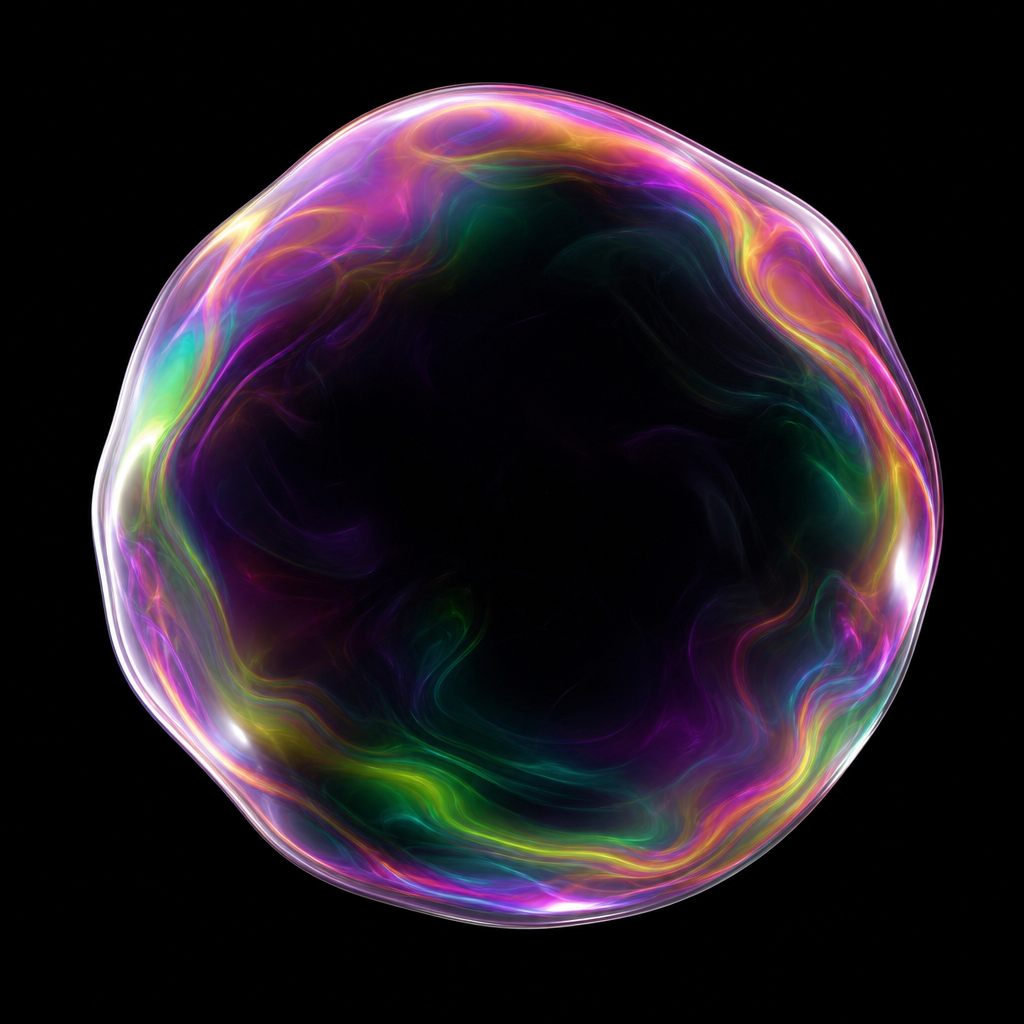
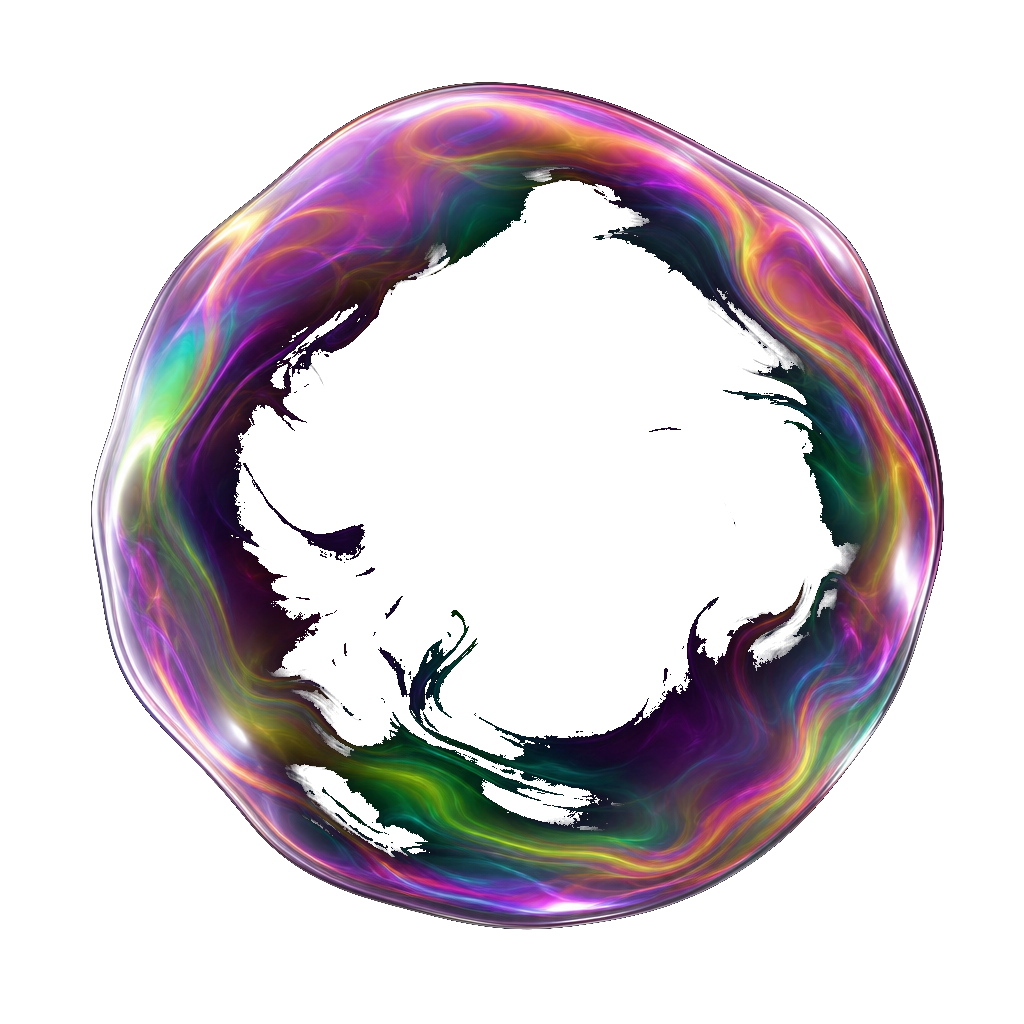
fix: sol boşluk, baloncuk şeffaflığı ve menü ikon geçişleri
- Sol/sağ kenar boşluğu eşit ve artırıldı
- Baloncuk PNG arka planı şeffaf; siyah kare kaldırıldı
- Menü ikonları sabit hitbox: bir ikon sınırı bırakılınca kapanır,
  diğerine girilince açılır; yazı ikonların sağında, geçişi engellemez

diff --git a/src/components/PartnershipMenu.tsx b/src/components/PartnershipMenu.tsx
@@ -38,6 +38,8 @@ export default function PartnershipMenu() {
     }, 200)
   }, [clearTimers])
 
+  const activeLabel = MENU_ITEMS.find((i) => i.id === activeItem)?.label
+
   return (
     <div
       className="relative flex items-center gap-1"
@@ -70,36 +72,43 @@ export default function PartnershipMenu() {
       </button>
 
       {showItems && (
-        <div className="flex items-center gap-0.5 ml-1 partnership-items-enter">
-          {MENU_ITEMS.map(({ id, label, Icon }) => {
-            const isActive = activeItem === id
-            const isHidden = activeItem !== null && activeItem !== id
+        <div
+          className="relative flex items-center ml-1 partnership-items-enter"
+          onMouseLeave={() => setActiveItem(null)}
+        >
+          {/* Fixed icon hitboxes — leave one icon boundary / enter another switches cleanly */}
+          <div className="flex items-center">
+            {MENU_ITEMS.map(({ id, label, Icon }) => {
+              const isActive = activeItem === id
+              const anotherActive = activeItem !== null && activeItem !== id
 
-            return (
-              <div
-                key={id}
-                className={`flex items-center gap-2 px-2 py-1.5 rounded-lg cursor-pointer transition-all duration-200 ${
-                  isHidden
-                    ? 'opacity-0 max-w-0 px-0 overflow-hidden pointer-events-none'
-                    : 'opacity-100 hover:bg-white/5'
-                }`}
-                onMouseEnter={() => setActiveItem(id)}
-                onMouseLeave={() => setActiveItem(null)}
-              >
-                <span className={`flex items-center justify-center w-7 h-7 flex-shrink-0 ${isActive ? 'icon-glow-wrap' : ''}`}>
-                  <Icon glowing={isActive} />
-                </span>
-                {isActive && (
-                  <span
-                    key={`${id}-label`}
-                    className="menu-label-reveal text-sm font-medium text-text-secondary whitespace-nowrap"
-                  >
-                    {label}
+              return (
+                <button
+                  key={id}
+                  type="button"
+                  aria-label={label}
+                  className={`flex items-center justify-center w-9 h-9 rounded-lg bg-transparent border-0 cursor-pointer transition-opacity duration-150 ${
+                    anotherActive ? 'opacity-0' : 'opacity-100'
+                  }`}
+                  onMouseEnter={() => setActiveItem(id)}
+                >
+                  <span className={isActive ? 'icon-glow-wrap' : ''}>
+                    <Icon glowing={isActive} />
                   </span>
-                )}
-              </div>
-            )
-          })}
+                </button>
+              )
+            })}
+          </div>
+
+          {/* Label sits after all icon slots so it never blocks switching */}
+          {activeItem && activeLabel && (
+            <span
+              key={activeItem}
+              className="menu-label-reveal text-sm font-medium text-text-secondary whitespace-nowrap ml-1.5"
+            >
+              {activeLabel}
+            </span>
+          )}
         </div>
       )}
     </div>

diff --git a/src/pages/BorsaPage.tsx b/src/pages/BorsaPage.tsx
@@ -33,7 +33,7 @@ export default function BorsaPage() {
     <div className="min-h-screen bg-bg-primary pb-10">
       {/* Header */}
       <header className="sticky top-0 z-40 bg-bg-primary/90 backdrop-blur-md border-b border-border">
-        <div className="max-w-[1440px] mx-auto pl-10 pr-5 sm:pl-14 sm:pr-8 h-14 flex items-center justify-between">
+        <div className="max-w-[1440px] mx-auto px-8 sm:px-14 lg:px-20 h-14 flex items-center justify-between">
           <div className="flex items-center gap-8 min-w-0">
             <div className="flex items-center gap-2.5 flex-shrink-0">
               <BubbleOrb />
@@ -64,7 +64,7 @@ export default function BorsaPage() {
         </div>
       </header>
 
-      <main className="max-w-[1440px] mx-auto pl-10 pr-5 sm:pl-14 sm:pr-8 py-5 space-y-5">
+      <main className="max-w-[1440px] mx-auto px-8 sm:px-14 lg:px-20 py-5 space-y-5">
         {/* Top Summary + Top 10 Currency Cards */}
         <section>
           <div className="flex gap-3 overflow-x-auto pb-2 scrollbar-thin">

diff --git a/src/components/BubbleOrb.tsx b/src/components/BubbleOrb.tsx
@@ -1,10 +1,10 @@
 export default function BubbleOrb() {
   return (
-    <div className="bubble-orb-wrap relative w-10 h-10 flex-shrink-0" aria-hidden="true">
+    <div className="bubble-orb-wrap relative w-10 h-10 flex-shrink-0 bg-transparent" aria-hidden="true">
       <img
-        src="/bubble-orb.png"
+        src="/bubble-orb.png?v=2"
         alt=""
-        className="bubble-orb w-full h-full object-contain select-none pointer-events-none"
+        className="bubble-orb w-full h-full object-contain select-none pointer-events-none bg-transparent"
         draggable={false}
       />
     </div>

diff --git a/src/index.css b/src/index.css
@@ -96,11 +96,14 @@ body {
   display: flex;
   align-items: center;
   justify-content: center;
+  background: transparent;
+  overflow: visible;
 }
 
 .bubble-orb {
   animation: bubble-breathe 5.5s ease-in-out infinite;
   will-change: transform;
+  background: transparent;
   filter: drop-shadow(0 0 6px rgba(200, 120, 255, 0.25));
 }
 
